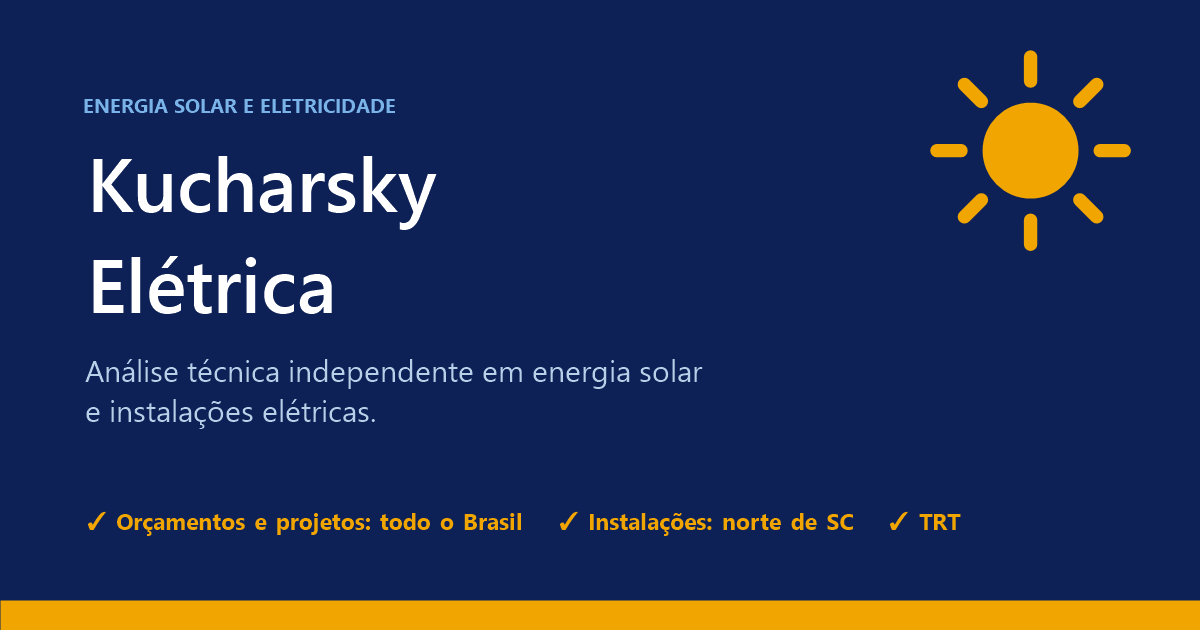
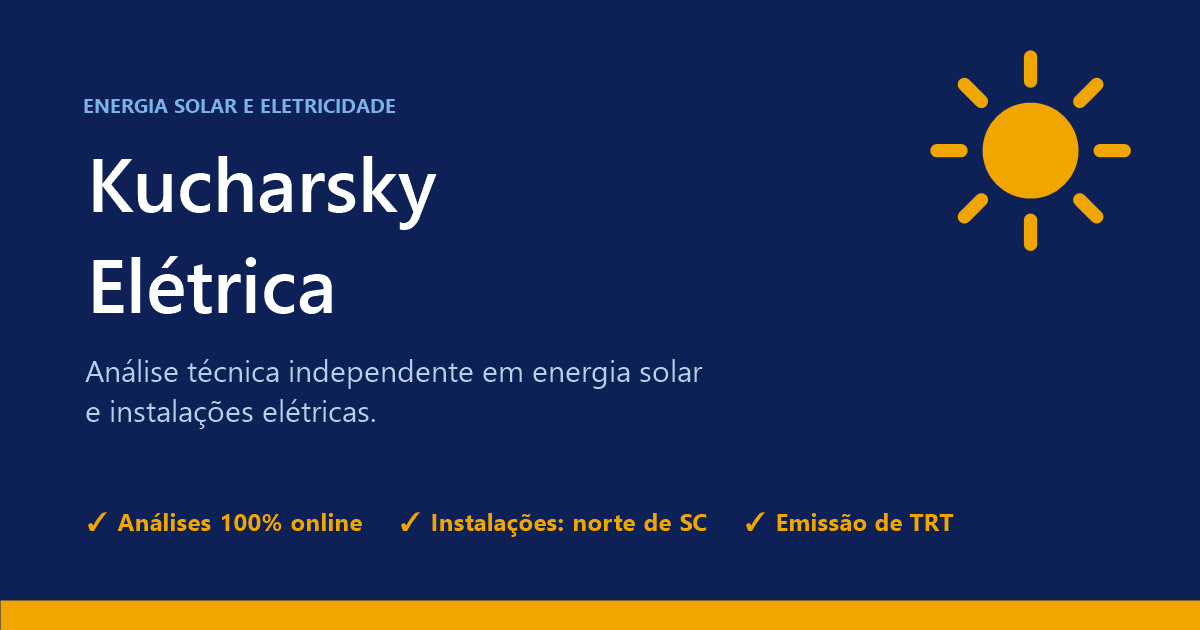
Análise de orçamento solar: todo o Brasil, exceto SC e PR

Changed region(s): [[0.0617, 0.8143, 0.8017, 0.8444]]

diff --git a/index.html b/index.html
@@ -4,7 +4,7 @@
 <meta charset="UTF-8">
 <meta name="viewport" content="width=device-width, initial-scale=1.0">
 <title>Kucharsky Elétrica — Análises técnicas em energia solar e eletricidade</title>
-<meta name="description" content="Análise independente de orçamentos de energia solar e de projetos elétricos para todo o Brasil, e análise de instalações elétricas no norte de Santa Catarina. Técnico em eletroeletrônica graduado em Engenharia Elétrica, com emissão de TRT.">
+<meta name="description" content="Análise independente de orçamentos de energia solar (todo o Brasil, exceto SC e PR), de projetos elétricos (todo o Brasil) e de instalações elétricas no norte de Santa Catarina. Técnico em eletroeletrônica graduado em Engenharia Elétrica, com emissão de TRT.">
 <link rel="canonical" href="https://kucharskyeletrica.com/">
 <meta name="theme-color" content="#0d2157">
 
@@ -18,7 +18,7 @@
 <meta property="og:site_name" content="Kucharsky Elétrica">
 <meta property="og:url" content="https://kucharskyeletrica.com/">
 <meta property="og:title" content="Kucharsky Elétrica — Análises técnicas em energia solar e eletricidade">
-<meta property="og:description" content="Análise de orçamentos de energia solar e de projetos elétricos para todo o Brasil, e de instalações elétricas no norte de SC. Com emissão de TRT.">
+<meta property="og:description" content="Análise de orçamentos de energia solar (exceto SC e PR), de projetos elétricos e de instalações elétricas no norte de SC. Com emissão de TRT.">
 <meta property="og:image" content="https://kucharskyeletrica.com/og-empresa.png">
 <meta property="og:image:width" content="1200">
 <meta property="og:image:height" content="630">
@@ -37,7 +37,7 @@
   "image": "https://kucharskyeletrica.com/og-empresa.png",
   "telephone": "+55 47 99646-3350",
   "email": "gabriel@kucharskyeletrica.com",
-  "description": "Análise independente de orçamentos de energia solar e de projetos elétricos para todo o Brasil, e análise de instalações elétricas no norte de Santa Catarina.",
+  "description": "Análise independente de orçamentos de energia solar (todo o Brasil, exceto SC e PR), de projetos elétricos (todo o Brasil) e de instalações elétricas no norte de Santa Catarina.",
   "areaServed": ["BR", "Norte de Santa Catarina"],
   "founder": {
     "@type": "Person",
@@ -183,7 +183,7 @@
   <div class="hero-inner">
     <div class="eyebrow">Kucharsky Elétrica</div>
     <h1>Análise técnica independente para decisões seguras em energia e eletricidade.</h1>
-    <p>Análise de orçamentos de energia solar e de projetos elétricos para todo o Brasil, e análise de instalações elétricas no norte de Santa Catarina, com emissão de TRT.</p>
+    <p>Análise de orçamentos de energia solar em todo o Brasil (exceto SC e PR), análise de projetos elétricos em todo o país e análise de instalações elétricas no norte de Santa Catarina, com emissão de TRT.</p>
     <div class="hero-actions">
       <a href="#servicos" class="btn btn-gold">Conheça os serviços</a>
       <a href="https://wa.me/5547996463350?text=Ol%C3%A1!%20Vim%20pelo%20site%20da%20Kucharsky%20El%C3%A9trica." class="btn btn-ghost">Falar no WhatsApp</a>
@@ -201,7 +201,7 @@
     <div class="services">
       <div class="service main">
         <div class="service-icon">☀</div>
-        <div class="tags"><span class="tag tag-online">100% online</span><span class="tag tag-online">Todo o Brasil</span></div>
+        <div class="tags"><span class="tag tag-online">100% online</span><span class="tag tag-online">Brasil, exceto SC e PR</span></div>
         <h3>Análise de orçamento de energia solar</h3>
         <p>Recebeu uma proposta de sistema fotovoltaico? Analisamos o orçamento antes de você assinar o contrato.</p>
         <ul>
@@ -243,7 +243,7 @@
       </div>
     </div>
 
-    <p class="note">A análise de orçamento de energia solar é feita exclusivamente sobre a documentação enviada e não inclui visita técnica. Atendimentos presenciais são realizados apenas no serviço de análise de instalações elétricas, na região norte de Santa Catarina.</p>
+    <p class="note">A análise de orçamento de energia solar é feita exclusivamente sobre a documentação enviada e não inclui visita técnica. Por política de independência, ela não é realizada para sistemas localizados em Santa Catarina e no Paraná. Atendimentos presenciais são realizados apenas no serviço de análise de instalações elétricas, na região norte de Santa Catarina.</p>
   </div>
 </section>
 
@@ -316,7 +316,7 @@
 <!-- RODAPÉ -->
 <footer>
   <p>Kucharsky Elétrica Ltda — CNPJ 66.766.392/0001-02<br>
-  Análise de orçamentos de energia solar e de projetos elétricos para todo o Brasil · Análise de instalações elétricas no norte de Santa Catarina</p>
+  Análise de orçamentos de energia solar: todo o Brasil, exceto SC e PR · Análise de projetos elétricos: todo o Brasil · Análise de instalações elétricas no norte de Santa Catarina</p>
 </footer>
 
 <!-- BOTÃO FLUTUANTE WHATSAPP -->

diff --git a/analise-solar/index.html b/analise-solar/index.html
@@ -4,7 +4,7 @@
 <meta charset="UTF-8">
 <meta name="viewport" content="width=device-width, initial-scale=1.0">
 <title>Análise de Orçamento Solar — Kucharsky Elétrica</title>
-<meta name="description" content="Análise técnica e mercadológica independente da proposta de energia solar que você recebeu. 100% documental, sem visita. Relatório em até 24h úteis. Não vendemos equipamentos nem recebemos comissão sobre a sua compra.">
+<meta name="description" content="Análise técnica e mercadológica independente da proposta de energia solar que você recebeu. 100% documental, sem visita. Todo o Brasil, exceto SC e PR. Relatório em até 24h úteis. Não vendemos equipamentos nem recebemos comissão sobre a sua compra.">
 <link rel="canonical" href="https://kucharskyeletrica.com/analise-solar">
 <meta name="theme-color" content="#0d2157">
 
@@ -161,6 +161,7 @@
   <div class="badge-strip">
     <span class="badge">Relatório entregue em até 24h úteis</span>
     <span class="badge">100% online, sem visita</span>
+    <span class="badge">Todo o Brasil, exceto SC e PR</span>
     <span class="badge">Nota Fiscal emitida</span>
   </div>
 </section>
@@ -218,6 +219,7 @@
         <li>Visita técnica ao imóvel ou ao local da instalação</li>
         <li>Vistoria ou inspeção de sistemas já instalados</li>
         <li>Projeto elétrico, execução ou homologação junto à concessionária</li>
+        <li>Propostas de sistemas localizados em Santa Catarina e no Paraná</li>
       </ul>
     </div>
   </div>
@@ -314,7 +316,7 @@
 <!-- FOOTER -->
 <footer>
   <p>Kucharsky Elétrica Ltda — CNPJ 66.766.392/0001-02<br>
-  Serviço de consultoria analítico-mercadológica, realizado exclusivamente sobre a documentação enviada pelo cliente.<br>Não inclui visita técnica, vistoria ou inspeção de instalações. Não constitui projeto executivo de engenharia.</p>
+  Serviço de consultoria analítico-mercadológica, realizado exclusivamente sobre a documentação enviada pelo cliente.<br>Por política de independência, não são analisadas propostas de sistemas localizados em Santa Catarina e no Paraná.<br>Não inclui visita técnica, vistoria ou inspeção de instalações. Não constitui projeto executivo de engenharia.</p>
 </footer>
 
 <!-- BOTÃO FLUTUANTE WHATSAPP -->
